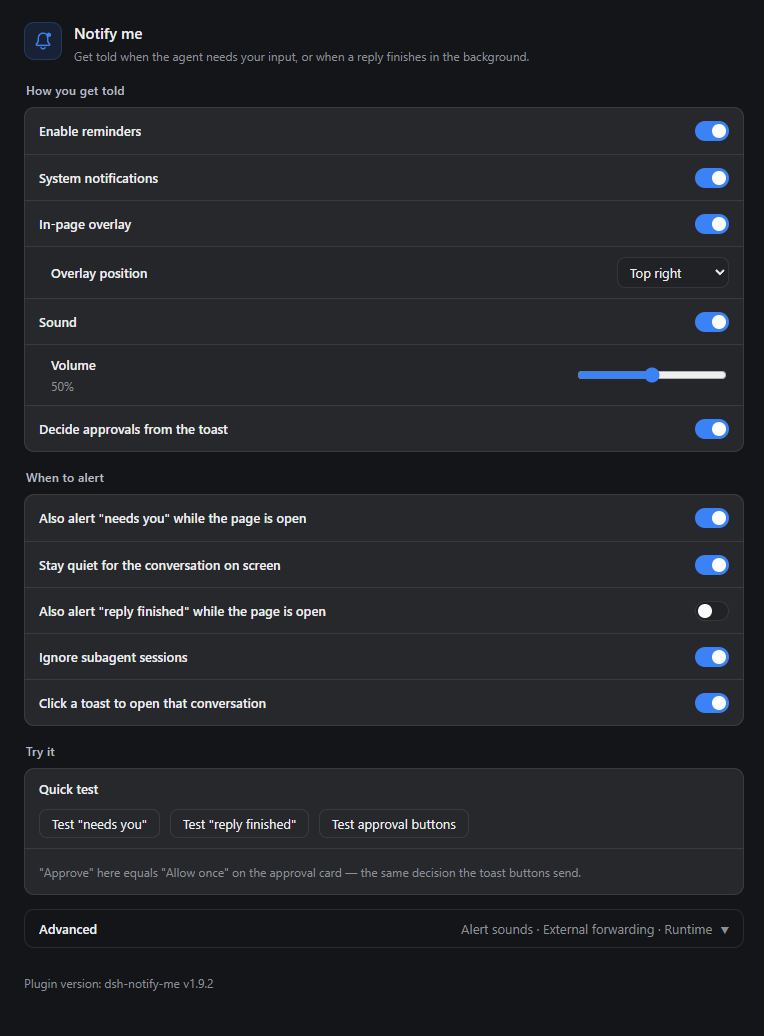
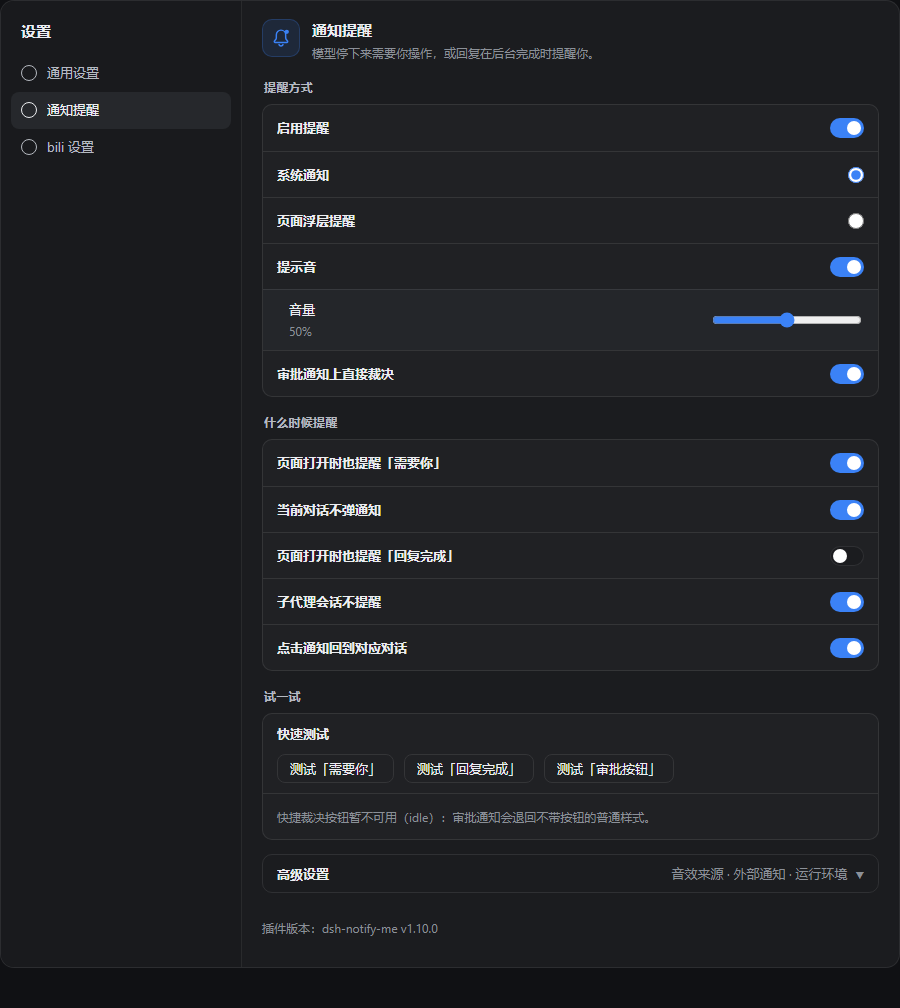
feat: one alert channel - system notifications or in-page overlay (1.10.0)
The two switches were independent, so with both on the same alert arrived twice and the overlay card sat under the system banner. The channel is now a single choice (config.channel), cached mirrors of toast/overlay stay in sync so older configs and console pokes keep working, cards fade on a schedule (12s/6s, actionable 18s), and plain toasts close at 10s.

diff --git a/lib/client.js b/lib/client.js
@@ -256,15 +256,19 @@
       // through the Service Worker half of this same file; where that cannot
       // run, the toast simply falls back to its plain form.
       quickActions: true,
-      // Where the alert is drawn. The OS toast always lands on the primary
-      // display — Windows offers no setting (and Chromium no API) to aim a
-      // banner at another monitor — so a user whose DSH window lives on a
-      // second screen never sees one. This option draws the same alert inside
-      // the page instead: it appears on whatever screen the window is on, needs
-      // no notification permission, and can carry the approval buttons even on
-      // the desktop shell (whose dsh-app:// page cannot run the Service Worker
-      // that OS action buttons need). Independent of `toast`; neither replaces
-      // the other, so "both" is a valid setup.
+      // The alert channel: exactly one of them, never both.
+      //   'toast'   — the OS notification center. Always drawn on the primary
+      //               display (Windows offers no setting and Chromium no API to
+      //               aim a banner at another monitor), needs notification
+      //               permission, and cannot carry action buttons on the desktop
+      //               shell.
+      //   'overlay' — a card inside the page, so it follows the DSH window to
+      //               whatever display it sits on, needs no permission, and can
+      //               carry the approval buttons even on the desktop shell.
+      channel: "toast",
+      // Legacy mirrors of `channel`, kept in sync on every read/write so that a
+      // config written by an older build, or a console poke at one of them,
+      // still means what it used to.
       overlay: false,
       // Which corner of this window the overlay cards stack in. The screen
       // follows the window — the page cannot aim it anywhere else either.
@@ -285,12 +289,31 @@
         var raw = localStorage.getItem(LS_CONFIG);
         if (raw) cfg = JSON.parse(raw);
       } catch (e) { /* corrupt storage -> defaults */ }
+      // Older builds stored two independent switches; the channel is now a
+      // single choice, and a config that had the overlay on keeps using it.
+      // Checked before the defaults fill in `channel`, or the fresh default
+      // would shadow the legacy keys.
+      if (typeof cfg.channel !== "string") {
+        cfg.channel = cfg.overlay === true ? "overlay" : "toast";
+      }
       for (var k in DEFAULTS) if (!(k in cfg)) cfg[k] = DEFAULTS[k];
+
+      cfg.toast = cfg.channel === "toast";
+      cfg.overlay = cfg.channel === "overlay";
       return cfg;
     }
     function writeConfig(patch) {
       var cfg = readConfig();
       for (var k in patch) cfg[k] = patch[k];
+      if (!("channel" in patch)) {
+        if (patch.overlay === true) cfg.channel = "overlay";
+        else if (patch.overlay === false && cfg.channel === "overlay") cfg.channel = "toast";
+        if (patch.toast === true) cfg.channel = "toast";
+        else if (patch.toast === false && cfg.channel === "toast") cfg.channel = "overlay";
+      }
+      cfg.channel = cfg.channel === "overlay" ? "overlay" : "toast";
+      cfg.toast = cfg.channel === "toast";
+      cfg.overlay = cfg.channel === "overlay";
       try { localStorage.setItem(LS_CONFIG, JSON.stringify(cfg)); } catch (e) {}
       return cfg;
     }
@@ -303,7 +326,7 @@
       // Overlay re-apply: switching it off takes the cards down at once and a
       // new corner moves the layer without waiting for the next alert.
       try {
-        if (!config.overlay) clearOverlays();
+        if (config.channel !== "overlay") clearOverlays();
         else if (overlayLayer) overlayLayer.className = "dnm-ov-layer dnm-ov-" + overlayCorner();
       } catch (e) {}
       return config;
@@ -436,7 +459,7 @@
       } catch (e) {}
     }
     function canToast() {
-      if (!config.toast) return false;
+      if (config.channel !== "toast") return false;
       try {
         return "Notification" in window && Notification.permission === "granted";
       } catch (e) { return false; } // a policy-disabled Notification must not break delivery
@@ -682,10 +705,11 @@
     // they are the only kind whose decision is a plain binary, and the only one
     // whose object answers answer('allowed-once' | 'rejected').
     function quickFor(key, it, sessionId) {
-      // The overlay can settle approvals without a worker, so it counts as a
-      // button channel on its own — the desktop shell, where OS action buttons
-      // cannot render, gets them this way.
-      if (!config.quickActions || !(config.toast || config.overlay)) return null;
+      // The buttons themselves are a rendering concern: the overlay always
+      // draws them, and a toast needs a live worker bridge for OS actions. The
+      // pending record is kept either way, so a click still settles the same
+      // decision (and debug().actionKeys stays honest about what is waiting).
+      if (!config.quickActions) return null;
       if (!it || it.kind !== "approval" || typeof it.answer !== "function") return null;
       var q = {
         key: key,
@@ -756,7 +780,9 @@
             n.close();
           };
         }
-        setTimeout(function () { n.close(); }, 15000);
+        // Longer for an actionable toast so there is time to click it, shorter
+        // for a plain one: a notification that just sits there is noise.
+        setTimeout(function () { n.close(); }, quick ? 20000 : 10000);
       } catch (e) {}
     }
 
@@ -772,9 +798,10 @@
     var OVERLAY_STYLE_ID = "dsh-notify-me/overlay";
     var OVERLAY_ID = "dsh-notify-me-overlay";
     var OVERLAY_MAX_CARDS = 4;
-    // An approval card is actionable and stays until it is answered or closed;
-    // the other kinds fade on the toast's own schedule (a toast closes at 15s).
-    var OVERLAY_TTL = { attention: 20000, done: 8000 };
+    // How long a card stays. "needs you" deserves a longer look than a finished
+    // reply; actionable cards get the longest window but still fade, because a
+    // card that never leaves is just clutter once the user has moved on.
+    var OVERLAY_TTL = { attention: 12000, done: 6000, action: 18000 };
     var OVERLAY_CORNERS = ["bottom-right", "bottom-left", "top-right", "top-left"];
     var OVERLAY_CSS = "" +
       ".dnm-ov-layer{position:fixed;z-index:2147483000;display:flex;flex-direction:column;gap:10px;pointer-events:none;max-width:calc(100vw - 24px)}" +
@@ -871,7 +898,7 @@
     // Same inputs as showToast: `quick` is the approval record built by
     // quickFor(), and it is what lets an overlay settle the request in place.
     function showOverlay(kind, title, body, sessionId, quick) {
-      if (!config.overlay) return false;
+      if (config.channel !== "overlay") return false;
       var layer = ensureOverlayLayer();
       if (!layer) return false;
       var d = texts();
@@ -937,10 +964,10 @@
         overlayCards[id] = rec;
         var ids = Object.keys(overlayCards);
         for (var i = 0; i < ids.length - OVERLAY_MAX_CARDS; i++) dismissOverlay(ids[i]);
-        if (!(quick && typeof quick.key === "string")) {
-          var ttl = OVERLAY_TTL[kind === "attention" ? "attention" : "done"];
-          if (ttl) rec.timer = setTimeout(function () { dismissOverlay(id); }, ttl);
-        }
+        var ttl = (quick && typeof quick.key === "string")
+          ? OVERLAY_TTL.action
+          : OVERLAY_TTL[kind === "attention" ? "attention" : "done"];
+        if (ttl) rec.timer = setTimeout(function () { dismissOverlay(id); }, ttl);
         return true;
       } catch (e) { return false; }
     }
@@ -1937,7 +1964,7 @@
       });
     } catch (e) {}
     // keep in sync with package.json "version" on every release
-    api.version = "1.9.5";
+    api.version = "1.10.0";
     api.setConfig = function (patch) { return setConfigLocal(patch); };
     api.resetConfig = function () {
       try {
@@ -1998,6 +2025,7 @@
         currentHiddenOnly: config.currentHiddenOnly,
         doneHiddenOnly: config.doneHiddenOnly,
         ignoreSubagent: config.ignoreSubagent,
+        channel: config.channel,
         toast: config.toast,
         sound: config.sound,
         soundDone: soundMode("done"),
@@ -2073,7 +2101,7 @@
       enable: "启用提醒",
       enableHint: "关闭后不弹通知、不响提示音，也不改标签页标题。",
       hostEnv: "运行环境",
-      hostEnvHint: "默认自动识别：页面协议是 dsh-app:// 即桌面端（DSH Desktop），其余为 Web 端。识别不准时手动指定：桌面端走 dsh:// 深链调窗（效果不稳定）、快捷裁决按钮不可用；Web 端走 window.focus() 与 Service Worker 桥。",
+      hostEnvHint: "默认自动识别：页面协议是 dsh-app:// 即桌面端（DSH Desktop），其余为 Web 端。识别不准时手动指定：桌面端走 dsh:// 深链调窗（效果不稳定），系统通知不带按钮、浮层才带；Web 端走 window.focus() 与 Service Worker 桥。",
       hostEnvAuto: "自动识别（推荐）",
       hostEnvDesktop: "桌面端（DSH Desktop）",
       hostEnvWeb: "Web 端（浏览器）",
@@ -2081,7 +2109,7 @@
       hostEnvMismatchTail: "」，手动选择会覆盖它）",
       hostEnvDesktopForcedNote: "（当前页面不是 dsh-app://：点通知会尝试唤起 dsh:// 协议，浏览器可能弹「打开应用」确认框）",
       toast: "系统通知",
-      toastHint: "经浏览器弹系统通知（Windows 通知中心），需要通知权限。",
+      toastHint: "走系统通知中心，需要通知权限；桌面端这类通知没有「同意 / 拒绝」按钮。",
       sound: "提示音",
       soundHint: "提示音总开关；播什么由「高级设置 → 音效来源」决定。",
       soundSource: "音效来源",
@@ -2153,9 +2181,9 @@
       quickApprovalNote: "「同意」等价于审批卡片上的「允许一次」，只放行这一次。",
       bridgeOff: "快捷裁决按钮暂不可用（",
       bridgeOffTail: "）：审批通知会退回不带按钮的普通样式。",
-      bridgeOffDesktop: "桌面端暂不支持快捷裁决按钮：dsh-app:// 页面无法注册 Service Worker，审批通知只能是不带按钮的普通样式，测试按钮同样只发普通通知。这是宿主限制，不是设置坏了。",
+      bridgeOffDesktop: "系统通知没有「同意 / 拒绝」按钮：桌面端页面（dsh-app://）注册不了 Service Worker（宿主少给 allowServiceWorkers 特权），按钮发不出来。想一键裁决就把「提醒方式」切到「页面浮层」。",
       overlay: "页面浮层提醒",
-      overlayHint: "在页面角落画提醒卡片：窗口在哪块屏，它就在哪块屏。系统通知只会出现在主屏，主屏不看时用它。不需要通知权限，桌面端也能直接「同意 / 拒绝」，可与系统通知同开。",
+      overlayHint: "在窗口角落画提醒卡片：窗口在哪块屏，它就在哪块屏；系统通知只会出现在主屏，主屏不看时用它。不需要通知权限，卡片上能直接「同意 / 拒绝」。与上面二选一，选它就不再弹系统通知。",
       overlayCorner: "浮层位置",
       overlayCornerHint: "贴在 DSH 窗口的哪个角；窗口在哪块屏，浮层就出现在哪块屏。",
       overlayPosTR: "右上",
@@ -2200,7 +2228,7 @@
       enable: "Enable reminders",
       enableHint: "When off: no toasts, no sounds, and the tab title is left alone.",
       hostEnv: "Environment",
-      hostEnvHint: "Auto-detect by default: a dsh-app:// page is the Desktop (DSH Desktop) shell, anything else is the Web. Override it if detection comes out wrong: on the Desktop a toast click fires the dsh:// deep link (the effect is unreliable) and quick-decision buttons are unavailable; on the Web it is window.focus() plus the Service Worker bridge.",
+      hostEnvHint: "Auto-detect by default: a dsh-app:// page is the Desktop (DSH Desktop) shell, anything else is the Web. Override it if detection comes out wrong: on the Desktop a toast click fires the dsh:// deep link (the effect is unreliable) and system notifications carry no buttons (the overlay does); on the Web it is window.focus() plus the Service Worker bridge.",
       hostEnvAuto: "Auto-detect (recommended)",
       hostEnvDesktop: "Desktop (DSH Desktop)",
       hostEnvWeb: "Web (browser)",
@@ -2208,7 +2236,7 @@
       hostEnvMismatchTail: "\"; the manual choice overrides it)",
       hostEnvDesktopForcedNote: " (this page is not dsh-app://: a toast click will try to launch the dsh:// protocol and the browser may show an \"open app?\" prompt)",
       toast: "System notifications",
-      toastHint: "Native toasts through the browser (Windows notification center); needs notification permission.",
+      toastHint: "Through the system notification center; needs notification permission, and on the Desktop these carry no Approve / Reject buttons.",
       sound: "Sound",
       soundHint: "Master cue switch; what it plays comes from Advanced → Alert sound.",
       soundSource: "Alert sound",
@@ -2280,9 +2308,9 @@
       quickApprovalNote: "\"Approve\" equals \"Allow once\" on the approval card — it allows that one call only.",
       bridgeOff: "Quick-decision buttons are unavailable right now (",
       bridgeOffTail: "); approval toasts fall back to their plain form.",
-      bridgeOffDesktop: "Quick-decision buttons are unavailable on Desktop: dsh-app:// pages cannot register a Service Worker, so approval toasts fall back to their plain, button-less form and the test button only sends a plain notification. This is a host limitation, not a broken setting.",
+      bridgeOffDesktop: "System notifications carry no Approve / Reject buttons: dsh-app:// pages cannot register a Service Worker (the shell does not grant the allowServiceWorkers privilege), so the buttons cannot be attached. Switch the alert channel to the in-page overlay to settle approvals in one click.",
       overlay: "In-page overlay",
-      overlayHint: "Draw a card in the page corner, on whatever display the window sits on. System notifications only land on the primary display. No permission needed, and the Desktop shell can Approve / Reject right on the card. Can run with toasts on.",
+      overlayHint: "Draw a card in the window corner, on whatever display the window sits on. System notifications only land on the primary display. No permission needed, and the card carries Approve / Reject directly. Pick this or the system notification above: choosing it stops system notifications.",
       overlayCorner: "Overlay position",
       overlayCornerHint: "Which corner of the DSH window the cards stack in; they follow the window to whatever display it is on.",
       overlayPosTR: "Top right",
@@ -2419,6 +2447,9 @@
       ".dnm-switch.on{background:var(--dsw-alias-state-business-primary,#3b82f6);border-color:transparent}" +
       ".dnm-knob{position:absolute;top:2px;left:2px;width:14px;height:14px;border-radius:50%;background:#fff;transition:left .15s ease}" +
       ".dnm-switch.on .dnm-knob{left:16px}" +
+      ".dnm-radio{flex:none;width:16px;height:16px;margin:0;accent-color:var(--dsw-alias-state-business-primary,#3b82f6);cursor:pointer}" +
+      ".dnm-rowRadio{justify-content:flex-start;gap:10px}" +
+      ".dnm-rowRadio .dnm-rowText{flex:1}" +
       ".dnm-range{width:150px;accent-color:var(--dsw-alias-state-business-primary,#3b82f6)}" +
       ".dnm-select{border:1px solid var(--dsw-alias-border-l2,rgba(128,128,128,.4));background:var(--dsw-alias-bg-layer-1,rgba(255,255,255,.03));color:var(--dsw-alias-label-primary,rgba(20,20,20,.9));border-radius:8px;padding:5px 8px;font-size:13px;font-family:inherit}" +
       ".dnm-btn{border:1px solid var(--dsw-alias-border-l2,rgba(128,128,128,.4));background:transparent;color:var(--dsw-alias-label-primary,rgba(20,20,20,.9));border-radius:8px;padding:5px 12px;font-size:13px;cursor:pointer;font-family:inherit}" +
@@ -2876,6 +2907,27 @@
       function secTitle(labelText) {
         return h("div", { className: "dnm-secTitle" }, labelText);
       }
+      // One channel at a time, so the pair renders as radios, not switches. The
+      // radio sits ahead of the label: two rows sharing one choice read as a
+      // list of options, which a lone dot on the far right does not.
+      function rowRadio(labelText, hintText, checked, onChange) {
+        var pick = function () { if (!checked) onChange(); };
+        return tipRow("dnm-row dnm-rowRadio", hintText, [
+          h("input", {
+            type: "radio",
+            className: "dnm-radio",
+            name: "dnm-alert-channel",
+            checked: !!checked,
+            "aria-label": labelText,
+            onChange: pick,
+            onClick: pick
+          }),
+          h("div", { className: "dnm-rowText" }, [
+            h("div", { className: "dnm-rowLabel" }, labelText),
+            srOnly(hintText)
+          ])
+        ]);
+      }
       // The permission state belongs on the System-notifications row it affects
       // rather than in a footer note the user has to connect to it.
       function toastHintText() {
@@ -2911,9 +2963,9 @@
             patch({ enabled: v });
             if (!v && attentionActive > 0) { attentionActive = 0; applyTitle(); }
           }),
-          rowSwitch("toast", t("toast"), toastHintText(), cfg.toast, function (v) { patch({ toast: v }); }),
-          rowSwitch("overlay", t("overlay"), t("overlayHint"), cfg.overlay, function (v) { patch({ overlay: v }); }),
-          cfg.overlay ? tipRow("dnm-row dnm-rowSub", t("overlayCornerHint"), [
+          rowRadio(t("toast"), toastHintText(), cfg.channel !== "overlay", function () { patch({ channel: "toast" }); }),
+          rowRadio(t("overlay"), t("overlayHint"), cfg.channel === "overlay", function () { patch({ channel: "overlay" }); }),
+          cfg.channel === "overlay" ? tipRow("dnm-row dnm-rowSub", t("overlayCornerHint"), [
             h("div", { className: "dnm-rowText" }, [
               h("div", { className: "dnm-rowLabel" }, t("overlayCorner")),
               srOnly(t("overlayCornerHint"))
@@ -2966,7 +3018,7 @@
           !cfg.quickActions ? h("div", { className: "dnm-row" }, [
             h("div", { className: "dnm-rowText" }, [h("div", { className: "dnm-rowHint" }, t("testNeedsQuick"))])
           ]) : h("div", { className: "dnm-row" }, [
-            h("div", { className: "dnm-rowText" }, [h("div", { className: "dnm-rowHint" }, cfg.overlay ? t("overlayQuickNote") : (cfg.toast && !bridgeActive() ? (isDesktopShell() ? t("bridgeOffDesktop") : t("bridgeOff") + swState + t("bridgeOffTail")) : t("quickApprovalNote")))])
+            h("div", { className: "dnm-rowText" }, [h("div", { className: "dnm-rowHint" }, cfg.channel === "overlay" ? t("overlayQuickNote") : (!bridgeActive() ? (isDesktopShell() ? t("bridgeOffDesktop") : t("bridgeOff") + swState + t("bridgeOffTail")) : t("quickApprovalNote")))])
           ]),
           feedback ? h("div", { className: "dnm-row" }, [
             h("div", { className: "dnm-rowText" }, [h("div", { className: "dnm-feedback" }, feedback)])

diff --git a/README.en.md b/README.en.md
@@ -13,7 +13,7 @@
 [![npm total downloads](https://img.shields.io/npm/dt/dsh-notify-me?style=flat-square&label=total%20downloads&color=1F883D)](https://www.npmjs.com/package/dsh-notify-me)
 [![License: MIT](https://img.shields.io/badge/license-MIT-blue?style=flat-square)](LICENSE)
 [![DSH Web and Desktop](https://img.shields.io/badge/DSH-Web%20%7C%20Desktop-blue?style=flat-square)](#installation)
-[![Client bundle size](https://img.shields.io/badge/client-%7E166%20KiB-green?style=flat-square)](lib/client.js)
+[![Client bundle size](https://img.shields.io/badge/client-%7E168%20KiB-green?style=flat-square)](lib/client.js)
 [![DSH Compatibility](https://img.shields.io/badge/DSH-tested%200.2.1--rc.2-6366f1.svg?style=flat-square)](#compatibility)
 [![Awesome DSH Plugin](https://awesome-dsh-plugin.com/badge.svg)](https://awesome-dsh-plugin.com)
 
@@ -26,7 +26,7 @@ A notification plugin for DSH Web / Desktop, so you can keep full access off wit
 - **When input is needed:** approval, plan review, and questions trigger notifications, sound, and a title marker.
 - **When a background reply finishes:** return to the result; click the notification to open its conversation.
 - **When you leave your computer:** optionally forward alerts to Discord, Bark, Gotify, or your own webhook.
-- **When you do not watch the primary display:** an optional in-page overlay follows the DSH window onto whichever screen you are looking at (system notifications only ever appear on the primary display).
+- **When you do not watch the primary display:** switch the alert channel to the in-page overlay — it follows the DSH window onto whichever screen you are looking at (system notifications only ever appear on the primary display).
 
 > Keep the page or desktop app running; backgrounding / minimizing is fine. System notifications require permission. Approval buttons need a Service Worker capable Web environment (such as `http://127.0.0.1` or `https`); Desktop notifications have no buttons — turn on the in-page overlay to decide from there instead (see [Secondary displays and the overlay](#secondary-displays-and-the-overlay)).
 
@@ -47,7 +47,7 @@ A notification plugin for DSH Web / Desktop, so you can keep full access off wit
 
 ![The Notify me settings page: header, how you get told, when to alert, try it, and the collapsed Advanced block](https://raw.githubusercontent.com/chromoany/dsh-notify-me/main/docs/screenshots/settings-en.png)
 
-The real settings component (v1.9.2 defaults) rendered as the content column in a standalone demo shell. Row explanations now live in a hover tooltip that appears when the pointer rests on a title, which is why only the titles show here.
+The real settings component (v1.10.0 defaults) rendered in a standalone demo shell. The alert channel is a single choice, and row explanations live in a hover tooltip that appears when the pointer rests on a title, which is why only the titles show here.
 </details>
 
 ## Installation
@@ -121,10 +121,11 @@ Open **Settings → Notify me**. The page runs as how you get told, when to aler
 ### How you get told
 
 - **Enable reminders**: master switch — off means no toasts, no sounds, and the tab title is left alone;
-- **System notifications** (on by default): native toasts through the browser, landing in the Windows / macOS notification center;
-- **In-page overlay** (off by default): cards drawn in the page corner, on whichever display the window sits on — system notifications only land on the primary display. No permission needed, and the Desktop shell can Approve / Reject right on the card. Runs alongside toasts; pick one of four corners when expanded. See [Secondary displays and the overlay](#secondary-displays-and-the-overlay);
+- **How you get told (pick one)**: system notifications or the in-page overlay — a single choice, so turning one on turns the other off;
+  - **System notifications** (default): native toasts landing in the Windows / macOS notification center; needs notification permission;
+  - **In-page overlay**: cards drawn in the page corner, on whichever display the window sits on — system notifications only land on the primary display. No permission needed, and the Desktop shell can Approve / Reject right on the card. Pick one of four corners when it is the chosen channel. See [Secondary displays and the overlay](#secondary-displays-and-the-overlay);
 - **Sound / Volume**: master cue switch and a volume slider; what it plays comes from Advanced → Alert sound;
-- **Decide approvals from the toast** (on by default): approval toasts carry Approve / Reject that settle the request in place. **Desktop notifications have no buttons** (`dsh-app://` cannot register a Service Worker) — leave the overlay on instead; the page states plainly which channel can carry buttons right now.
+- **Decide approvals from the toast** (on by default): approval toasts carry Approve / Reject that settle the request in place. **Desktop notifications have no buttons** (`dsh-app://` cannot register a Service Worker) — pick the in-page overlay as the channel instead; the page states plainly which channel can carry buttons right now.
 
 ### Secondary displays and the overlay
 
@@ -135,8 +136,8 @@ The **in-page overlay** skips the notification center and draws the card inside 
 - **Position** — top right / bottom right / top left / bottom left, default bottom right; changes apply immediately;
 - **No notification permission needed** — it works when permission was never granted, and on the Desktop shell where buttonless toasts are all the OS channel can do;
 - **Approval cards carry Approve / Reject** — the same decision as Allow once / Reject on the approval card, and they work on the Desktop too (no Service Worker involved). Clicking the card body opens its conversation;
-- **Lifetime** — "needs you" cards retire after 20s, "reply finished" after 8s; an approval card with buttons stays until it is decided or closed. At most 4 cards stack at once;
-- **Relation to system notifications** — the two switches are independent. With both on, the primary display gets toasts and the second screen gets the overlay; the overlay alone is also a valid setup.
+- **Lifetime** — "needs you" cards retire after 12s, "reply finished" after 6s, and an approval card with buttons after 18s; a card or its close button retires one earlier. At most 4 cards stack at once;
+- **Relation to system notifications** — it is one or the other. Both used to be switchable at once, which meant every alert arrived twice and the pair covered each other; 1.10.0 makes it a single choice, and an old config with the overlay on migrates to it.
 
 The overlay only knows which screen the window is on, not which screen you are looking at. If the window stays on the primary display while you watch another one, it stays invisible — same as a toast.
 
@@ -200,7 +201,7 @@ The last block inside Advanced. The page protocol is detected automatically to t
 ## How it alerts
 
 - **System notification** — a toast through the browser into the Windows action center / macOS Notification Center (clicking it opens the conversation it came from; supported Web environments offer approval buttons, Desktop does not)
-- **In-page overlay** (optional, default off) — an alert card drawn in the corner of the DSH page, on whatever display the window is on, optionally with Approve / Reject buttons; see [Secondary displays and the overlay](#secondary-displays-and-the-overlay)
+- **In-page overlay** — an alert card drawn in the corner of the DSH page, on whatever display the window is on, optionally with Approve / Reject buttons; see [Secondary displays and the overlay](#secondary-displays-and-the-overlay)
 - **Sound** — WebAudio beeps by default (distinct patterns for "needs you" vs "done"); each kind can instead play a picked audio file, or hand the sound over to the operating system's own notification sound
 - **Tab title marker** — while something is waiting on you, the tab title is prefixed with `🔔 Action needed · …` / `🔔 需要你 · …`; while a background session is **finished but unread**, with `✅ Reply finished · …` / `✅ 回复完成 · …`, gone once you open that session (or it starts running again). Both kinds can be up together, "needs you" first; a host title change is rebased under the markers
 - **External notifications** (optional, default off) — the same alert is also forwarded to the push targets you configure: Discord Webhook / Bark / Gotify / custom webhook — so the push channel on your phone picks it up while you step away from the machine
@@ -250,14 +251,14 @@ window.__dshNotifyMe.setConfig({
   currentHiddenOnly: true,    // true = waits in the conversation on screen keep only the tab marker (replayed once backgrounded)
   doneHiddenOnly: true,       // false = also alert "reply finished" while visible
   ignoreSubagent: true,       // true = never alert for background subagent sessions (the open one is exempt)
-  toast: true,                // system-notification toggle
+  channel: "toast",          // alert channel: 'toast' system notification | 'overlay' in-page card, pick one
   sound: true,                // cue toggle (also governs the "system notification sound" mode)
   soundDone: "synth",         // "reply finished" cue source: 'synth' built-in | 'custom' picked file | 'system' OS sound
   soundAttention: "synth",    // "needs you" cue source, same values
   volume: 0.5,                // 0..1
   autoFocus: true,            // clicking a toast opens the conversation it came from
   quickActions: true,         // Approve / Reject buttons on approval toasts
-  overlay: false,             // in-page overlay alert (follows the DSH window to its display; no notification permission needed)
+  overlay: false,             // legacy mirror kept in sync with channel (old configs migrate through it)
   overlayCorner: "bottom-right", // overlay anchor: 'top-right' | 'bottom-right' | 'top-left' | 'bottom-left'
   externalEnabled: false,     // external-notification forwarding master switch (default off: no endpoint, nothing is sent)
   externalAttention: true,    // forward "needs you" (exactly the same trigger rules as local alerts)

diff --git a/docs/listing.md b/docs/listing.md
@@ -17,7 +17,7 @@
 
 ## 本插件的当前状态
 
-- npm：`dsh-notify-me` 已发布，`latest` 为 1.9.5（1.9.5 = 桌面端抬窗口径改为「不稳定」（隔离复测：深链 3/3 无效）；1.9.3 = 悬浮提示只在行标题文字上触发，停在开关/滑块上不再弹；1.9.2 = 设置页说明改成悬浮提示，行内只留标题；1.9.1 = 设置左侧导航行图标换成品牌铃铛；1.9.0 = 品牌标志 `docs/brand/` + 设置页重排：页眉 / 提醒方式 / 什么时候提醒 / 试一试 / 折叠的高级设置，2026-10-20 发布；publish 返回 `PUT 202` 后约 1 分钟才在 registry 可读，属正常处理延迟），manifest 带 `dsh.bundle.patch` 与 `dsh.compatibility.dshReleases`（npm 上这份声明到 `0.2.0-rc.2`；仓库里已补到 `0.2.1-rc.2`，随下次发版同步。`0.2.1-rc.2` 宿主不再读取该字段，装不装只看 `peerDependencies` 与 `engines`）。
+- npm：`dsh-notify-me` 已发布，`latest` 为 1.10.0（1.10.0 = 提醒方式改二选一（系统通知 / 页面浮层单选，旧配置自动迁移），停留时间收紧、带按钮的卡片也会自动消失；1.9.5 = 桌面端抬窗口径改为「不稳定」（隔离复测：深链 3/3 无效）；1.9.3 = 悬浮提示只在行标题文字上触发，停在开关/滑块上不再弹；1.9.2 = 设置页说明改成悬浮提示，行内只留标题；1.9.1 = 设置左侧导航行图标换成品牌铃铛；1.9.0 = 品牌标志 `docs/brand/` + 设置页重排：页眉 / 提醒方式 / 什么时候提醒 / 试一试 / 折叠的高级设置，2026-10-20 发布；publish 返回 `PUT 202` 后约 1 分钟才在 registry 可读，属正常处理延迟），manifest 带 `dsh.bundle.patch` 与 `dsh.compatibility.dshReleases`（npm 上这份声明到 `0.2.0-rc.2`；仓库里已补到 `0.2.1-rc.2`，随下次发版同步。`0.2.1-rc.2` 宿主不再读取该字段，装不装只看 `peerDependencies` 与 `engines`）。
 - imsai-sh / deepseek1024.com：条目 `catalog/plugins/chromoany--dsh-notify-me.json` 已合入 `main`（`added: 2026-09-09`），`Catalog sync` 工作流在每次 main 推送后自动跑。**2026-09-11 扩写条目描述以提升站内可搜性（PR #400，`static-review` 已通过、待合并）**：原描述里没有「消息提醒 / 桌面通知 / 提醒 / message alerts / reminder」，用户搜这些词完全命中不到——机制见下节。
 - awesome-dsh-plugin：条目文件 `data/plugins/chromoany__dsh-notify-me.yml` 在 **PR #4741**（`Submission gate` 绿；唯一红的 `check` 是仓库级构建失败，与本条目无关），**仍未合并**。2026-09-11 核查结论：该站**自 2026-09-09 03:13Z 起站点构建失败、数据停更在 09-08**（registry 顶层 `updated: 2026-09-08`、`count: 3408`、最大 `added: 2026-09-08`），且 **09-09 03:26Z 之后零合并**（`merged:>=2026-09-09T04:00:00Z` 精确等于 0）。反证：09-09 已合并的 #4591 `xtd1145/dsh-deepseek-cost-live`、#4495 `dearbld/dsh-living-memory`、#4503 `dsh-todo-float-ball` 在站点上**同样 404**。故"搜不到"是整条队列停滞，不是本条目被拒。
 

diff --git a/CHANGELOG.md b/CHANGELOG.md
@@ -2,6 +2,24 @@
 
 All notable changes to **dsh-notify-me** are documented here.
 
+## [1.10.0] — 2026-10-21
+
+### 新增
+
+- **提醒方式改成二选一**：「系统通知」和「页面浮层」从两个独立开关变成一组单选。两个都开时同一条提醒会弹两遍、浮层还会被系统横幅压住，现在选一个另一个自动关掉。老配置里开着浮层的，升级后自动落到浮层（`readConfig` 迁移，`overlay`/`toast` 两个旧字段继续作为镜像同步，控制台 `setConfig({ overlay: true })` 照旧生效）。
+- 设置页里这两个选项改成行首带单选的列表，读起来是一组互斥选项，而不是两个可以同时开的开关。
+
+### 变更
+
+- **停留时间收紧**：普通系统通知 10 秒自动收（带按钮的 20 秒），原来统一 15 秒；浮层卡片「需要你」12 秒、「回复完成」6 秒、带按钮的审批卡片 18 秒——原来带按钮的卡永不自动消失，留着占屏。
+- 说明文案同步：系统通知那行直说「桌面端这类通知没有按钮」，浮层那行直说「与上面二选一」；`bridgeOffDesktop` 改成指路——桌面端要按钮就切到浮层，并点明宿主缺 `allowServiceWorkers`。
+- `api.debug()` 新增 `channel` 字段。
+
+### 测试
+
+- 冒烟：两个单选互斥的持久化、老配置迁移、切频道时图层清理、两种渠道各自只发一条、带按钮卡片 18 秒自收（用可控 `setTimeout` 捕获定时器）。
+- `npm test` 两套件（`smoke-test.cjs` / `cordis-host-test.mjs`）全过。
+
 ## [1.9.5] — 2026-10-20
 
 ### 说明
